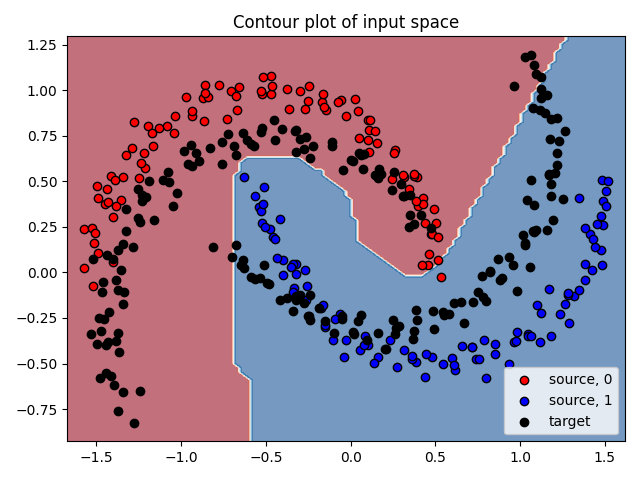
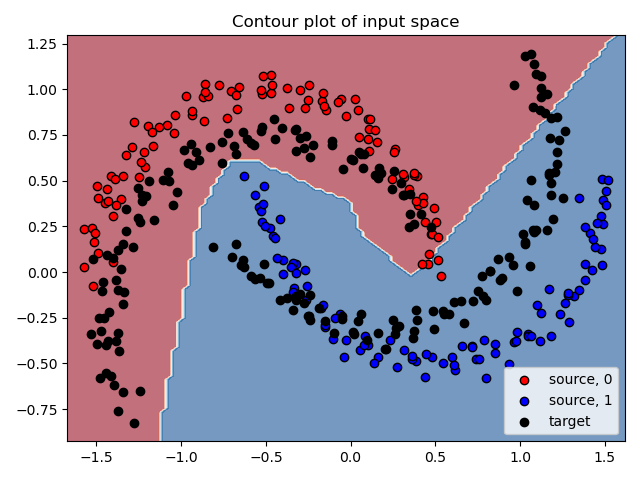
Merge branch PCA into main (#2)
* Added PCA to plot feature extractor latent space

* Update README.md to include PCA plots

diff --git a/core.py b/core.py
@@ -3,6 +3,8 @@ from torch import nn
 import numpy as np
 from sklearn.metrics.cluster import adjusted_rand_score
 from sklearn.metrics import accuracy_score
+from sklearn.decomposition import PCA
+from matplotlib import pyplot as plt
 
 import params
 import utils
@@ -58,7 +60,7 @@ def train_src(encoder, classifier, src_data_loader):
     return encoder, classifier
 
 
-def eval(encoder, classifier, src_data_loader, print_output: bool = True):
+def eval(encoder, classifier, data_loader, print_output: bool = True):
     """
     Evaluate encoder and classifier using source domain data
     """
@@ -70,20 +72,21 @@ def eval(encoder, classifier, src_data_loader, print_output: bool = True):
     criterion = nn.BCELoss()
 
     # Evaluate network
-    for idx, (X_batch, y_true_batch) in enumerate(src_data_loader):
-        # Extract features using encoder network
-        features_src = encoder(X_batch)
+    with torch.no_grad():
+        for idx, (X_batch, y_true_batch) in enumerate(data_loader):
+            # Extract features using encoder network
+            features = encoder(X_batch)
 
-        # Predict source samples on classifier
-        y_pred_batch = classifier(features_src).squeeze()
-        y_pred_batch = torch.where(y_pred_batch >= 0.5, 1, 0).to(dtype=torch.float32)
+            # Predict source samples on classifier
+            y_pred_batch = classifier(features).squeeze()
+            y_pred_batch = torch.where(y_pred_batch >= 0.5, 1, 0).to(dtype=torch.float32)
 
-        # Compute training loss
-        loss = criterion(input=y_pred_batch, target=y_true_batch)
-        losses.append(loss.item())
+            # Compute training loss
+            loss = criterion(input=y_pred_batch, target=y_true_batch)
+            losses.append(loss.item())
 
-        true_labels.extend(y_true_batch.tolist())
-        predicted_labels.extend(y_pred_batch.tolist())
+            true_labels.extend(y_true_batch.tolist())
+            predicted_labels.extend(y_pred_batch.tolist())
 
     if print_output:
         print(f"\t avg loss = {loss:.6f}, avg acc = {accuracy_score(y_true=true_labels, y_pred=predicted_labels):2%}, ARI = {adjusted_rand_score(labels_true=true_labels, labels_pred=predicted_labels):.4f}")
@@ -155,7 +158,7 @@ def train_src_tgt(encoder, classifier, discriminator, src_data_loader, tgt_data_
         
         # Print metrics for this epoch
         if epoch % 10 == 0:
-            print(f'Epoch {epoch} of {params.num_epochs}: train loss is {classifier_losses_across_epochs[-1]:.6f}')
+            print(f'Epoch {epoch} of {params.num_epochs}: train loss is {classifier_losses_across_epochs[-1]:.6f} (lambda is {lambda_:.4f})')
 
     # Plot training loss curve
     plt = utils.plot_loss_curve(classifier_losses_across_epochs)
@@ -163,3 +166,48 @@ def train_src_tgt(encoder, classifier, discriminator, src_data_loader, tgt_data_
     plt.close()
 
     return encoder, classifier, discriminator
+
+
+def pca_plots(encoder, src_data_loader, tgt_data_loader, file: str):
+    """
+    
+    """
+    encoder.eval()
+    features_src_list, features_tgt_list = [], []
+    labels_src_list = []
+
+    with torch.no_grad():
+        for idx, (X_batch, y_batch) in enumerate(src_data_loader):
+            # Extract features using encoder network
+            features_src = encoder(X_batch)
+            features_src_list.append(features_src.detach().cpu())
+            labels_src_list.append(y_batch.detach().cpu())
+
+        for idx, (X_batch, _) in enumerate(tgt_data_loader):
+            # Extract features using encoder network
+            features_tgt = encoder(X_batch)
+            features_tgt_list.append(features_tgt.detach().cpu())
+    
+    # Convert features from list to torch.Tensor by stacking
+    features_src = torch.cat(features_src_list, dim=0).numpy()
+    features_tgt = torch.cat(features_tgt_list, dim=0).numpy()
+    labels_src = torch.cat(labels_src_list, dim=0).numpy()
+
+    # Fit and transform the features using PCA
+    pca_transformer = PCA(n_components=2).fit(np.concatenate((features_src, features_tgt), axis=0))
+    features_src = pca_transformer.transform(features_src)
+    features_tgt = pca_transformer.transform(features_tgt)
+
+    # Plot the PCA
+    plt.figure()
+    plt.scatter(features_src[labels_src==0][:, 0], features_src[labels_src==0][:, 1], color='blue', s=3)
+    plt.scatter(features_src[labels_src==1][:, 0], features_src[labels_src==1][:, 1], color='orange', s=3)
+    plt.scatter(features_tgt[:, 0], features_tgt[:, 1], color='black', s=3)
+    plt.xlabel('Latent dim. 1')
+    plt.ylabel('Latent dim. 2')
+    plt.title(f"PCA of encoder's latent space. \n Expl. variance is {(pca_transformer.explained_variance_ratio_[0]*100):.2f}% (dim. 1) and {(pca_transformer.explained_variance_ratio_[1]*100):.2f}% (dim. 2).")
+    plt.legend(['source, 0', 'source, 1', 'target'])
+    plt.tight_layout()
+    plt.savefig(file)
+    plt.close()
+    return

diff --git a/main.py b/main.py
@@ -22,14 +22,15 @@ def main():
     In a second phase, train encoder and classifier from their respective state.
     Use unsupervised DANN with a discriminator initialised from scratch. 
     """
-    # Set random seeds for reproducibility
+    # Set random seeds for reproducibility (disabled CUDA settings since all is done on CPU)
     print(f"Random seed is {params.manual_seed}")
     random.seed(params.manual_seed)
     np.random.seed(params.manual_seed)
     torch.manual_seed(params.manual_seed)
-    torch.cuda.manual_seed(params.manual_seed)
-    torch.backends.cudnn.deterministic = True
-    torch.backends.cudnn.benchmark = True
+    torch.use_deterministic_algorithms(True)
+    # torch.cuda.manual_seed(params.manual_seed)
+    # torch.backends.cudnn.deterministic = True
+    # torch.backends.cudnn.benchmark = True
 
     # Create source and target domain data
     # Assume 100 train samples and 100 test samples
@@ -93,6 +94,8 @@ def main():
     plt = utils.plot_contour(Xs, Xt, ys, x_coord_grid, y_coord_grid, y_pred_grid)
     plt.savefig('./plots/contour_plot_no_domain_adaptation.png')
 
+    # Plot encoder's latent space through PCA
+    core.pca_plots(encoder, Xs_loader_train, Xt_loader_train, './plots/pca_encoder_no-domain-adaptation.png')
 
     #########################################################################################################
     #  Train encoder, classifier and discriminator using source and target domain data (unsupervised DANN)
@@ -112,13 +115,16 @@ def main():
     print("Evaluation using src data (trained with both src and tgt data):")
     test_predictions_Xs_with_da, test_true_Xs_with_da = core.eval(encoder, classifier, Xs_loader_test)
     print("Evaluation using tgt data (trained with both src and tgt data):")
-    test_predictions_Xt_with_da, test_true_Xt_with_da =core.eval(encoder, classifier, Xt_loader_test)
+    test_predictions_Xt_with_da, test_true_Xt_with_da = core.eval(encoder, classifier, Xt_loader_test)
 
     # Create contour plot
     y_pred_grid, _ = core.eval(encoder, classifier, X_loader_grid, print_output=False) # print=False because this will give gibberish output
     y_pred_grid = np.array(y_pred_grid).reshape(100, 100) # Reshape back from separate 2 coordinate points to mesh/grid
     plt = utils.plot_contour(Xs, Xt, ys, x_coord_grid, y_coord_grid, y_pred_grid)
     plt.savefig('./plots/contour_plot_with_domain_adaptation.png')
+
+    # Plot encoder's latent space through PCA
+    core.pca_plots(encoder, Xs_loader_train, Xt_loader_train, './plots/pca_encoder_with-domain-adaptation.png')
     
     return
 

diff --git a/params.py b/params.py
@@ -6,6 +6,7 @@ Note that these parameters are not optimised well, as this repo is for demonstra
 
 num_epochs = 800 # Copied from https://adapt-python.github.io/adapt/examples/Two_moons.html
 manual_seed = 562
+manual_seed_weight_init = 123
 batch_size = 34
 learning_rate_no_dann = 1e-3 # Copied from https://adapt-python.github.io/adapt/examples/Two_moons.html#Source-Only
 learning_rate_dann = 1e-3

diff --git a/models.py b/models.py
@@ -1,6 +1,7 @@
 import torch
+import params
 
-torch_generator = torch.Generator().manual_seed(123)
+torch_generator = torch.Generator(device='cpu').manual_seed(params.manual_seed_weight_init)
 
 def init_weights(layer):
     """

diff --git a/README.md b/README.md
@@ -1,6 +1,6 @@
 # DANN-two-moons-PyTorch
 Demo of an unsupervised domain adversarial neural network (DANN) using the Two Moons synthetic dataset. Implemented in PyTorch, compared to [ADAPT package Two Moons](https://adapt-python.github.io/adapt/examples/Two_moons.html) example to ensure correctness. \
-The hyperparameters were copied from the ADAPT demo. Therefore, they may be suboptimal.
+The hyperparameters were copied from the ADAPT demo. Therefore, these may be suboptimal.
 
 ## Dataset
 To ensure identical data as used in the [ADAPT Package Two Moons](https://adapt-python.github.io/adapt/examples/Two_moons.html) example, I have copied the data creation function (`make_moons_da()` in `utils.py`) to ensure the same data was used. \
@@ -30,6 +30,11 @@ Source domain test data: avg loss = 0.000000, avg acc = 100.000000%, ARI = 1.000
 Target domain test data: avg loss = 18.750000, avg acc = 85.000000%, ARI = 0.4849
 ```
 
+Visualisation of the feature extractor's latent space (encoder) without domain adaptation (through PCA):
+<p align="center">
+  <img width="500" src=./plots/pca_encoder_no-domain-adaptation.png>
+</p>
+
 ### With domain adaptation
 Next, the encoder, the classifier and the discriminator (domain classifier) were trained. Domain adaptation was applied.
 
@@ -40,10 +45,15 @@ Visualisation of the network with domain adaptation:
 
 The corresponding results on the test set data are (`log.txt`):
 ```
-Source domain test data: avg loss = 0.000000, avg acc = 99.000000%, ARI = 0.9600
-Target domain test data: avg loss = 3.125000, avg acc = 95.000000%, ARI = 0.8081
+Source domain test data: avg loss = 0.000000, avg acc = 98.000000%, ARI = 0.9208
+Target domain test data: avg loss = 12.500000, avg acc = 93.000000%, ARI = 0.7370
 ```
-The hyperparameters were copied from the ADAPT demo. Therefore, they may be suboptimal.
+The hyperparameters were copied from the ADAPT demo. Therefore, these may be suboptimal.
+
+Visualisation of the feature extractor's latent space (encoder) with domain adaptation (through PCA):
+<p align="center">
+  <img width="500" src=./plots/pca_encoder_with-domain-adaptation.png>
+</p>
 
 ## Reproducibility
 The minimal list of required packages can be found in `requirements.txt`. All code was tested in Python 3.11 and 3.12 with PyTorch 2.6.0 and 2.4.1 resp. \
